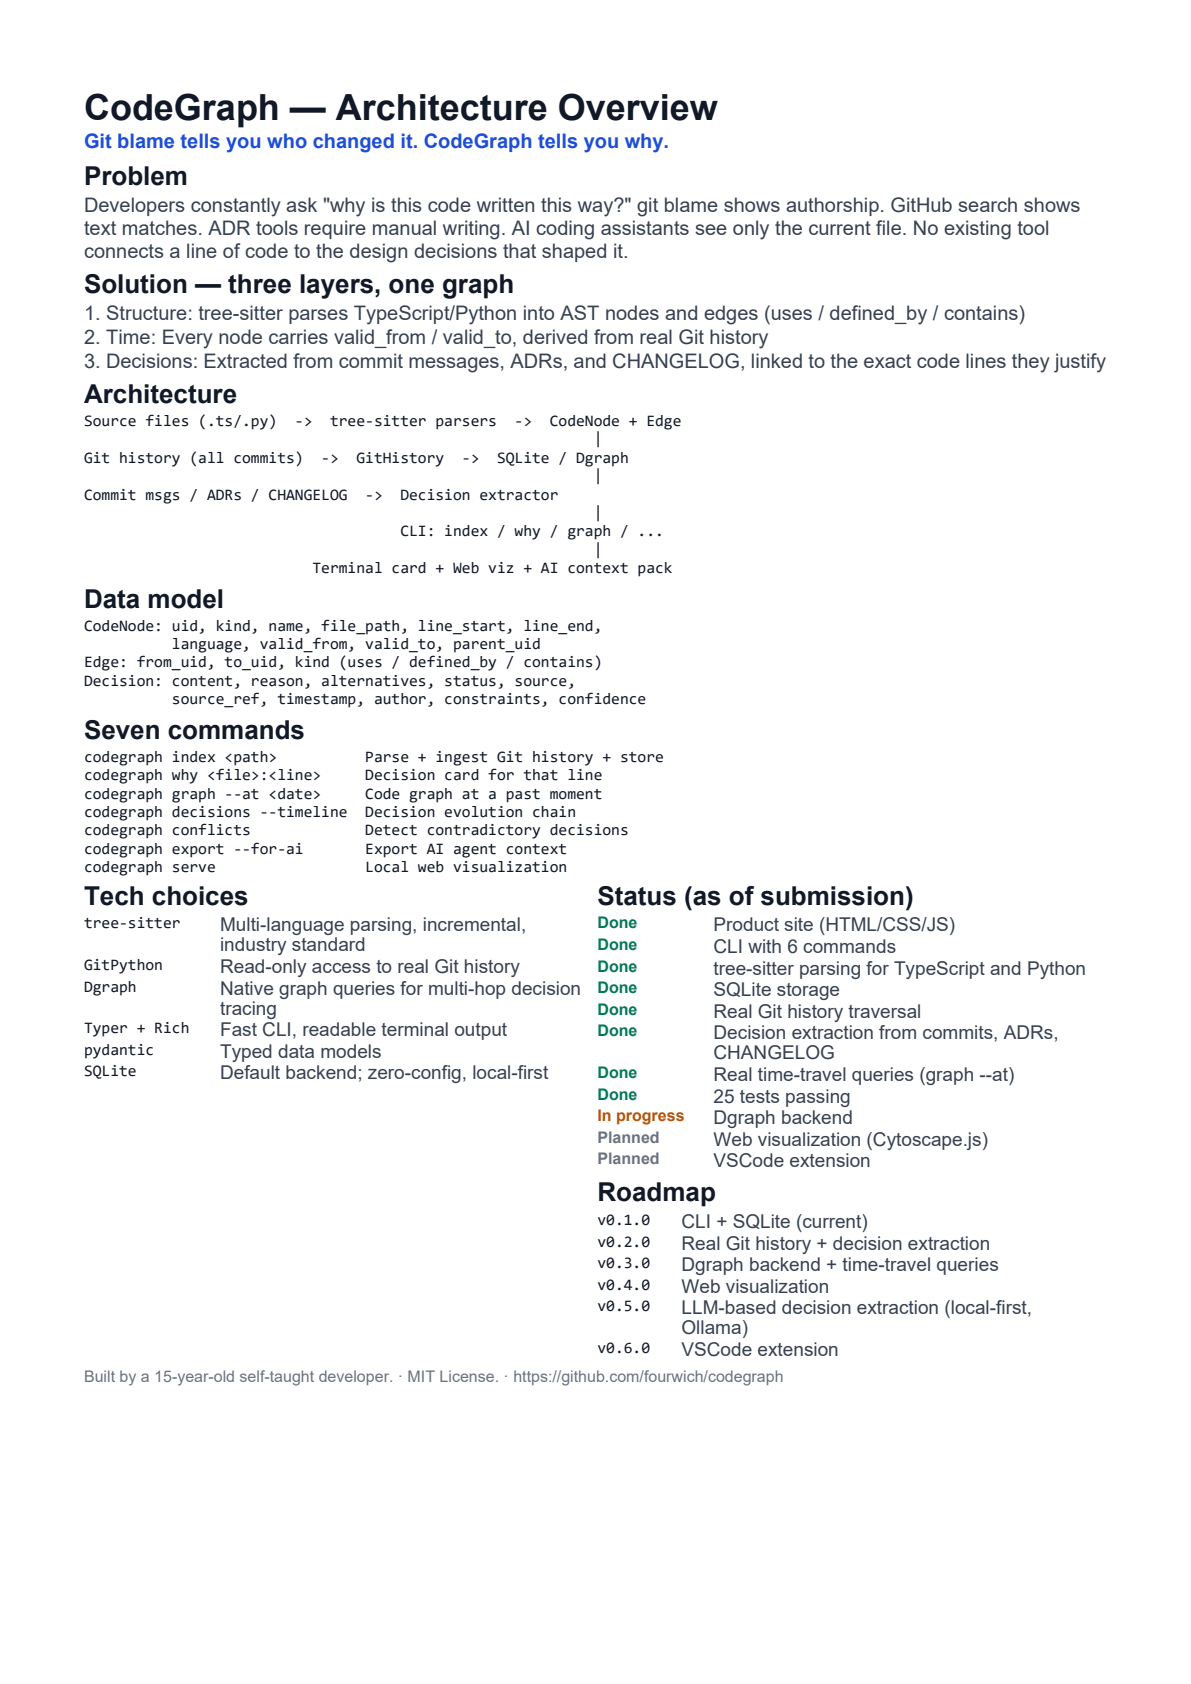
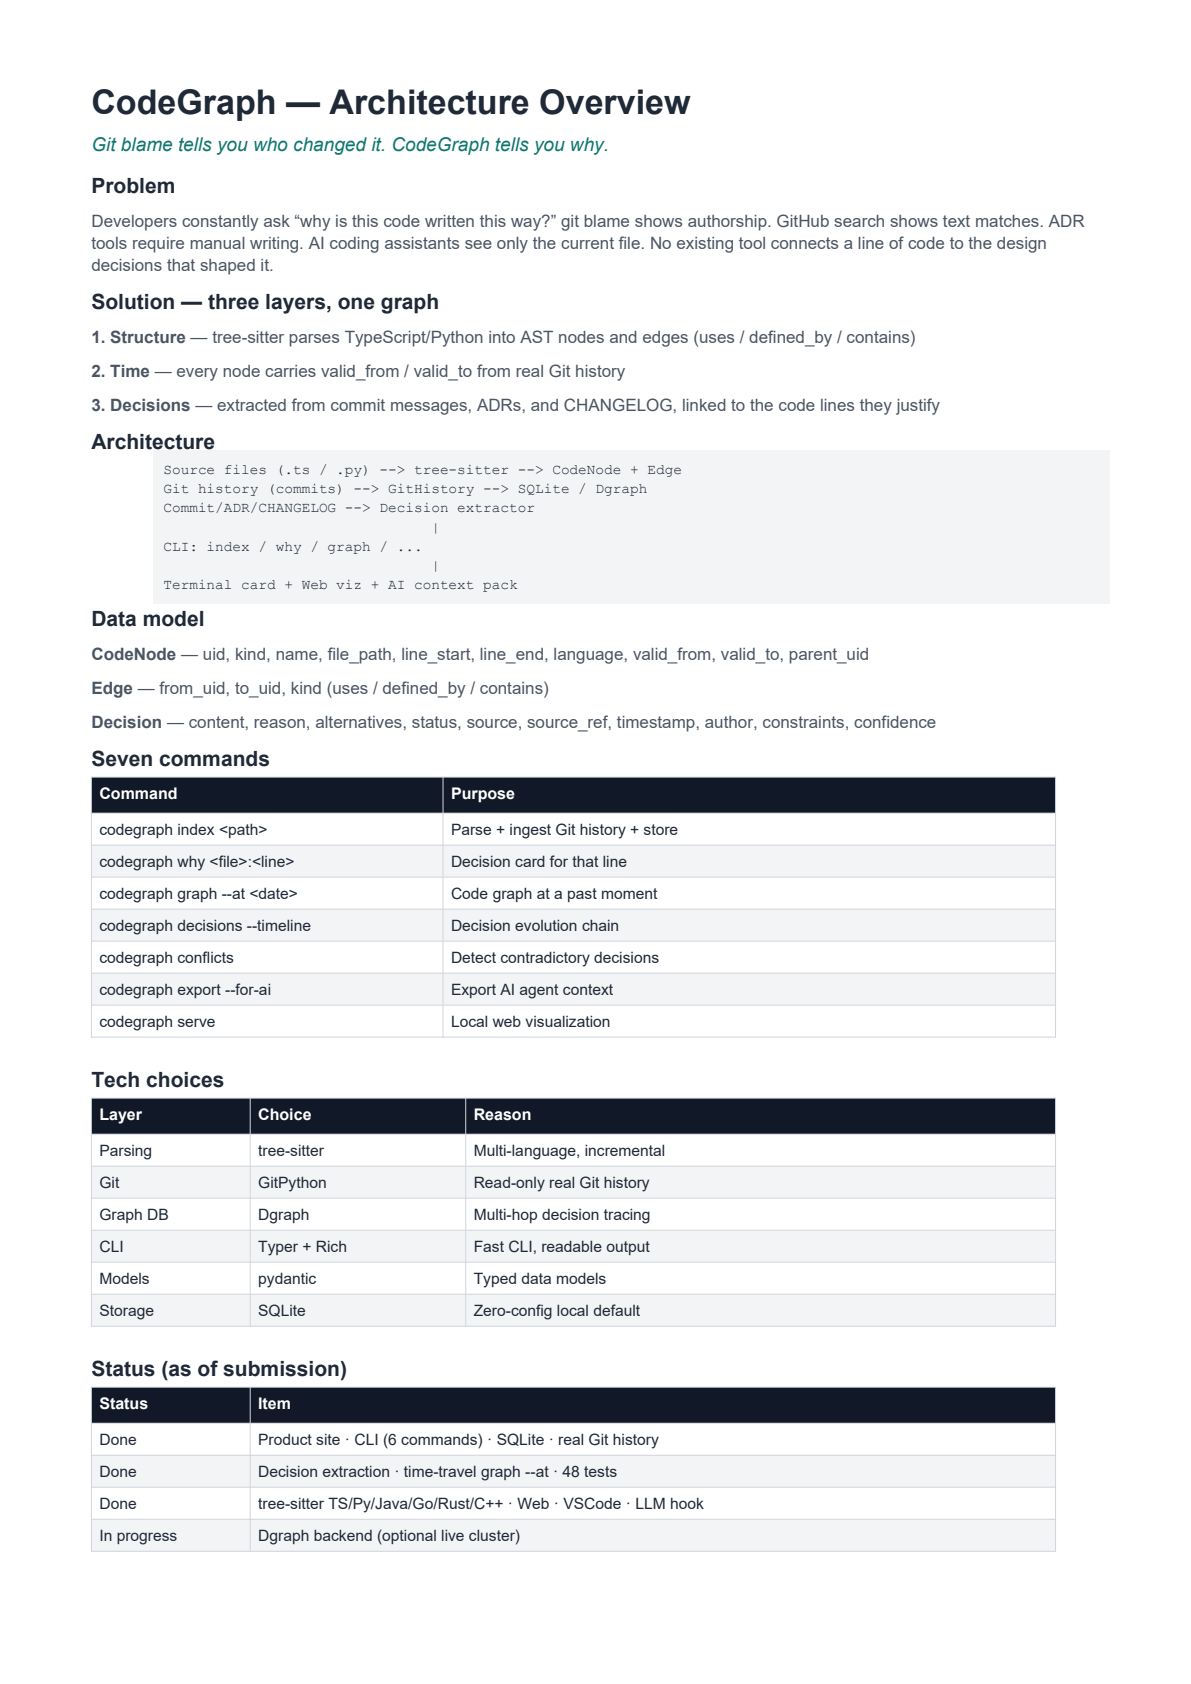
docs: clean architecture PDF for competition submission

diff --git a/scripts/compose_architecture_pdf.py b/scripts/compose_architecture_pdf.py
@@ -1,0 +1,289 @@
+"""Compose a clean architecture PDF (fixed markup and table headers)."""
+
+from __future__ import annotations
+
+from pathlib import Path
+
+from reportlab.lib import colors
+from reportlab.lib.enums import TA_LEFT
+from reportlab.lib.pagesizes import A4
+from reportlab.lib.styles import ParagraphStyle, getSampleStyleSheet
+from reportlab.lib.units import mm
+from reportlab.platypus import Paragraph, SimpleDocTemplate, Spacer, Table, TableStyle
+
+OUT = Path("submission") / "codegraph-architecture.pdf"
+
+INK = colors.HexColor("#1F2937")
+MUTED = colors.HexColor("#4B5563")
+ACCENT = colors.HexColor("#0F766E")
+LINE = colors.HexColor("#D1D5DB")
+BG = colors.HexColor("#F3F4F6")
+HEAD_BG = colors.HexColor("#111827")
+
+
+def esc(text: str) -> str:
+    """Escape HTML specials and prevent -- → en-dash in Paragraph."""
+    return (
+        text.replace("&", "&amp;")
+        .replace("<", "&lt;")
+        .replace(">", "&gt;")
+        .replace("--", "&#45;&#45;")
+    )
+
+
+def styles() -> dict[str, ParagraphStyle]:
+    base = getSampleStyleSheet()
+    return {
+        "title": ParagraphStyle(
+            "T",
+            parent=base["Title"],
+            fontName="Helvetica-Bold",
+            fontSize=17,
+            leading=20,
+            textColor=INK,
+            alignment=TA_LEFT,
+            spaceAfter=2,
+        ),
+        "tag": ParagraphStyle(
+            "Tag",
+            parent=base["BodyText"],
+            fontName="Helvetica-Oblique",
+            fontSize=9.5,
+            leading=12,
+            textColor=ACCENT,
+            spaceAfter=8,
+        ),
+        "h": ParagraphStyle(
+            "H",
+            parent=base["Heading2"],
+            fontName="Helvetica-Bold",
+            fontSize=10.5,
+            leading=13,
+            textColor=INK,
+            spaceBefore=6,
+            spaceAfter=3,
+        ),
+        "body": ParagraphStyle(
+            "B",
+            parent=base["BodyText"],
+            fontName="Helvetica",
+            fontSize=8.5,
+            leading=11,
+            textColor=MUTED,
+            spaceAfter=2,
+        ),
+        "mono": ParagraphStyle(
+            "M",
+            parent=base["Code"],
+            fontName="Courier",
+            fontSize=7.2,
+            leading=9.5,
+            textColor=INK,
+            backColor=BG,
+            borderPadding=5,
+            spaceAfter=4,
+        ),
+        "cell": ParagraphStyle(
+            "C",
+            parent=base["BodyText"],
+            fontName="Helvetica",
+            fontSize=7.8,
+            leading=10,
+            textColor=INK,
+        ),
+        "small": ParagraphStyle(
+            "S",
+            parent=base["BodyText"],
+            fontName="Helvetica",
+            fontSize=7.8,
+            leading=10,
+            textColor=MUTED,
+        ),
+    }
+
+
+def md_table(header: list[str], rows: list[list[str]], col_widths: list[float]) -> Table:
+    """Build a table with light header text (plain strings, not Paragraphs)."""
+    data = [list(header)]
+    s = styles()
+    for row in rows:
+        data.append([Paragraph(esc(c), s["cell"]) for c in row])
+    table = Table(data, hAlign="LEFT", colWidths=col_widths, repeatRows=1)
+    table.setStyle(
+        TableStyle(
+            [
+                ("BACKGROUND", (0, 0), (-1, 0), HEAD_BG),
+                ("TEXTCOLOR", (0, 0), (-1, 0), colors.white),
+                ("FONTNAME", (0, 0), (-1, 0), "Helvetica-Bold"),
+                ("FONTSIZE", (0, 0), (-1, 0), 8),
+                ("GRID", (0, 0), (-1, -1), 0.3, LINE),
+                ("ROWBACKGROUNDS", (0, 1), (-1, -1), [colors.white, BG]),
+                ("VALIGN", (0, 0), (-1, -1), "TOP"),
+                ("LEFTPADDING", (0, 0), (-1, -1), 4),
+                ("RIGHTPADDING", (0, 0), (-1, -1), 4),
+                ("TOPPADDING", (0, 0), (-1, -1), 3),
+                ("BOTTOMPADDING", (0, 0), (-1, -1), 3),
+            ]
+        )
+    )
+    return table
+
+
+def build_story() -> list:
+    s = styles()
+    story: list = []
+    story.append(Paragraph("CodeGraph — Architecture Overview", s["title"]))
+    story.append(
+        Paragraph(
+            "Git blame tells you who changed it. CodeGraph tells you why.",
+            s["tag"],
+        )
+    )
+
+    story.append(Paragraph("Problem", s["h"]))
+    story.append(
+        Paragraph(
+            "Developers constantly ask “why is this code written this way?” "
+            "git blame shows authorship. GitHub search shows text matches. "
+            "ADR tools require manual writing. AI coding assistants see only the "
+            "current file. No existing tool connects a line of code to the design "
+            "decisions that shaped it.",
+            s["body"],
+        )
+    )
+
+    story.append(Paragraph("Solution — three layers, one graph", s["h"]))
+    story.append(
+        Paragraph(
+            "<b>1. Structure</b> — tree-sitter parses TypeScript/Python into AST nodes "
+            "and edges (uses / defined_by / contains)",
+            s["body"],
+        )
+    )
+    story.append(
+        Paragraph(
+            "<b>2. Time</b> — every node carries valid_from / valid_to from real Git history",
+            s["body"],
+        )
+    )
+    story.append(
+        Paragraph(
+            "<b>3. Decisions</b> — extracted from commit messages, ADRs, and CHANGELOG, "
+            "linked to the code lines they justify",
+            s["body"],
+        )
+    )
+
+    story.append(Paragraph("Architecture", s["h"]))
+    diagram = (
+        "Source files (.ts / .py) --&gt; tree-sitter --&gt; CodeNode + Edge<br/>"
+        "Git history (commits)   --&gt; GitHistory  --&gt; SQLite / Dgraph<br/>"
+        "Commit/ADR/CHANGELOG    --&gt; Decision extractor<br/>"
+        "&nbsp;&nbsp;&nbsp;&nbsp;&nbsp;&nbsp;&nbsp;&nbsp;&nbsp;&nbsp;&nbsp;&nbsp;&nbsp;&nbsp;&nbsp;&nbsp;&nbsp;&nbsp;&nbsp;&nbsp;&nbsp;&nbsp;&nbsp;&nbsp;&nbsp;&nbsp;&nbsp;&nbsp;&nbsp;&nbsp;&nbsp;|<br/>"
+        "CLI: index / why / graph / ...<br/>"
+        "&nbsp;&nbsp;&nbsp;&nbsp;&nbsp;&nbsp;&nbsp;&nbsp;&nbsp;&nbsp;&nbsp;&nbsp;&nbsp;&nbsp;&nbsp;&nbsp;&nbsp;&nbsp;&nbsp;&nbsp;&nbsp;&nbsp;&nbsp;&nbsp;&nbsp;&nbsp;&nbsp;&nbsp;&nbsp;&nbsp;&nbsp;|<br/>"
+        "Terminal card + Web viz + AI context pack"
+    )
+    story.append(Paragraph(diagram, s["mono"]))
+
+    story.append(Paragraph("Data model", s["h"]))
+    story.append(
+        Paragraph(
+            "<b>CodeNode</b> — uid, kind, name, file_path, line_start, line_end, "
+            "language, valid_from, valid_to, parent_uid",
+            s["body"],
+        )
+    )
+    story.append(
+        Paragraph(
+            "<b>Edge</b> — from_uid, to_uid, kind (uses / defined_by / contains)",
+            s["body"],
+        )
+    )
+    story.append(
+        Paragraph(
+            "<b>Decision</b> — content, reason, alternatives, status, source, "
+            "source_ref, timestamp, author, constraints, confidence",
+            s["body"],
+        )
+    )
+
+    story.append(Paragraph("Seven commands", s["h"]))
+    story.append(
+        md_table(
+            ["Command", "Purpose"],
+            [
+                ["codegraph index <path>", "Parse + ingest Git history + store"],
+                ["codegraph why <file>:<line>", "Decision card for that line"],
+                ["codegraph graph --at <date>", "Code graph at a past moment"],
+                ["codegraph decisions --timeline", "Decision evolution chain"],
+                ["codegraph conflicts", "Detect contradictory decisions"],
+                ["codegraph export --for-ai", "Export AI agent context"],
+                ["codegraph serve", "Local web visualization"],
+            ],
+            [62 * mm, 108 * mm],
+        )
+    )
+
+    story.append(Spacer(1, 3 * mm))
+    story.append(Paragraph("Tech choices", s["h"]))
+    story.append(
+        md_table(
+            ["Layer", "Choice", "Reason"],
+            [
+                ["Parsing", "tree-sitter", "Multi-language, incremental"],
+                ["Git", "GitPython", "Read-only real Git history"],
+                ["Graph DB", "Dgraph", "Multi-hop decision tracing"],
+                ["CLI", "Typer + Rich", "Fast CLI, readable output"],
+                ["Models", "pydantic", "Typed data models"],
+                ["Storage", "SQLite", "Zero-config local default"],
+            ],
+            [28 * mm, 38 * mm, 104 * mm],
+        )
+    )
+
+    story.append(Spacer(1, 3 * mm))
+    story.append(Paragraph("Status (as of submission)", s["h"]))
+    story.append(
+        md_table(
+            ["Status", "Item"],
+            [
+                ["Done", "Product site · CLI (6 commands) · SQLite · real Git history"],
+                ["Done", "Decision extraction · time-travel graph --at · 48 tests"],
+                ["Done", "tree-sitter TS/Py/Java/Go/Rust/C++ · Web · VSCode · LLM hook"],
+                ["In progress", "Dgraph backend (optional live cluster)"],
+            ],
+            [28 * mm, 142 * mm],
+        )
+    )
+
+    story.append(Spacer(1, 4 * mm))
+    story.append(
+        Paragraph(
+            "Built by a 15-year-old self-taught developer.<br/>"
+            "MIT License · https://github.com/fourwich/codegraph",
+            s["small"],
+        )
+    )
+    return story
+
+
+def main() -> None:
+    """Write the architecture PDF under submission/."""
+    OUT.parent.mkdir(parents=True, exist_ok=True)
+    doc = SimpleDocTemplate(
+        str(OUT),
+        pagesize=A4,
+        leftMargin=14 * mm,
+        rightMargin=14 * mm,
+        topMargin=12 * mm,
+        bottomMargin=12 * mm,
+        title="CodeGraph — Architecture Overview",
+        author="CodeGraph",
+    )
+    doc.build(build_story())
+    print(f"wrote {OUT.resolve()} bytes={OUT.stat().st_size}")
+
+
+if __name__ == "__main__":
+    main()
